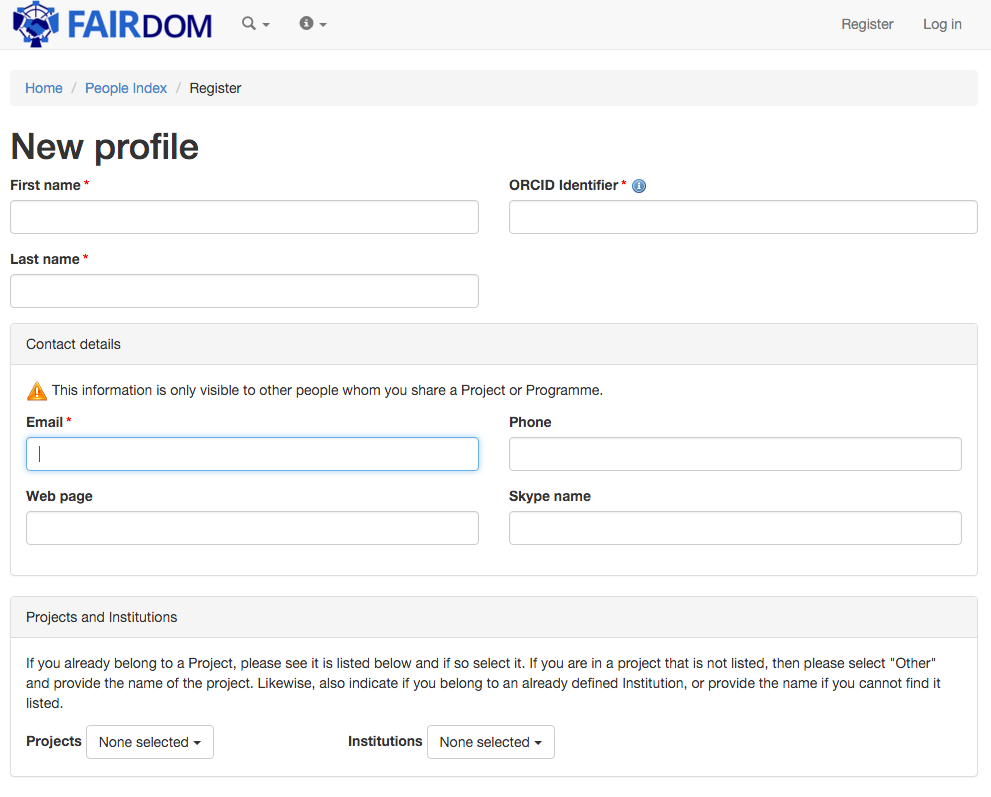
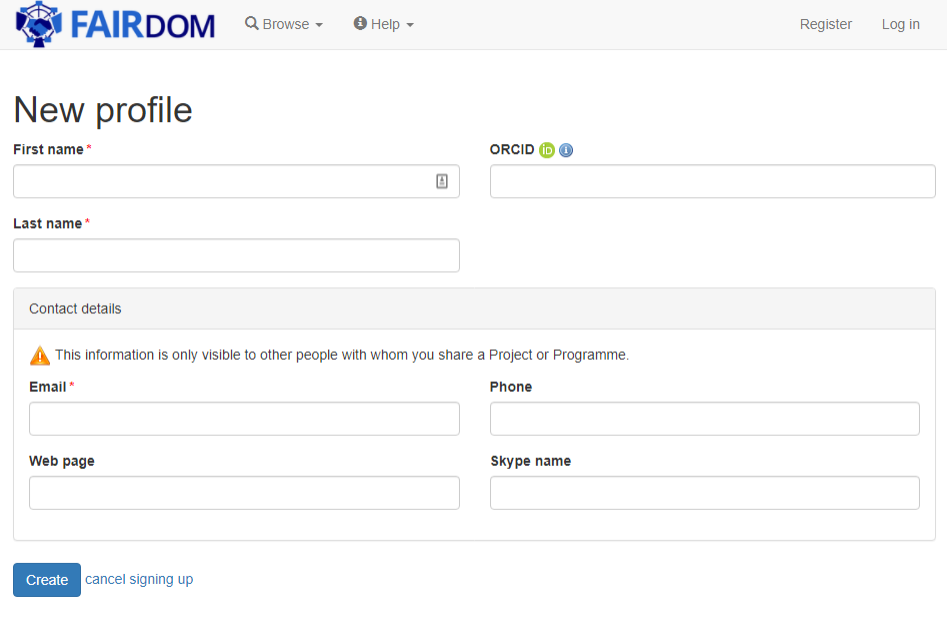
updated registration
updated screenshot and words to reflect that selecting a project during signup is no longer required.
point to requesting to join, and (currently blank) how to create a project

diff --git a/help/user-guide/registering.md b/help/user-guide/registering.md
@@ -26,15 +26,17 @@ You will then be taken to a screen where you will enter further information. We 
 
 In some installations of SEEK, you may be required to enter:
 
-* ORCID ID - if you do not have an ORCID you will need to register for one here http://orcid.org/
+* ORCID ID - if you do not have an ORCID you will need to register for one at [http://orcid.org/](http://orcid.org/)
 
-Information that is required is indicated with a red star.
-
-If your project is already in SEEK please select it from the dropdown menu.
-If your institute is already in SEEK please select it from the dropdown menu.
+Information that is mandatory is indicated with a red star.
 
 ![Registration 3](/images/user-guide/register_3.png){:.screenshot}
 
 After you have registered the rest of your information, in most installations of SEEK, you will need to activate your account. You will receive an email in the email account you have provided.
 
 ![Registration 4](/images/user-guide/register_4.png){:.screenshot}
+
+Once you have activated your account and logged in, you will need to either create or join a Project before you can register content, for more information please see:
+
+  * [Join an existing Project](./request-to-join-project.html)
+  * [Create a new Project](./create-a-project.html)

diff --git a/help/user-guide/index.md b/help/user-guide/index.md
@@ -15,6 +15,7 @@ layout: page
      - [Managing your identities/alternative login methods](managing-identities.html)
 - [Browsing content](browsing.html)
 - [Requesting to join a Project](request-to-join-project.html)
+- [Creating a Project](create-a-project.html)
 - [Adding assets (data, models, SOPs, publications) to SEEK](adding-assets.html)
 - [Creating new asset versions](uploading-new-versions.html)
 - [Comparing two versions of a Model](model-comparison.html)
